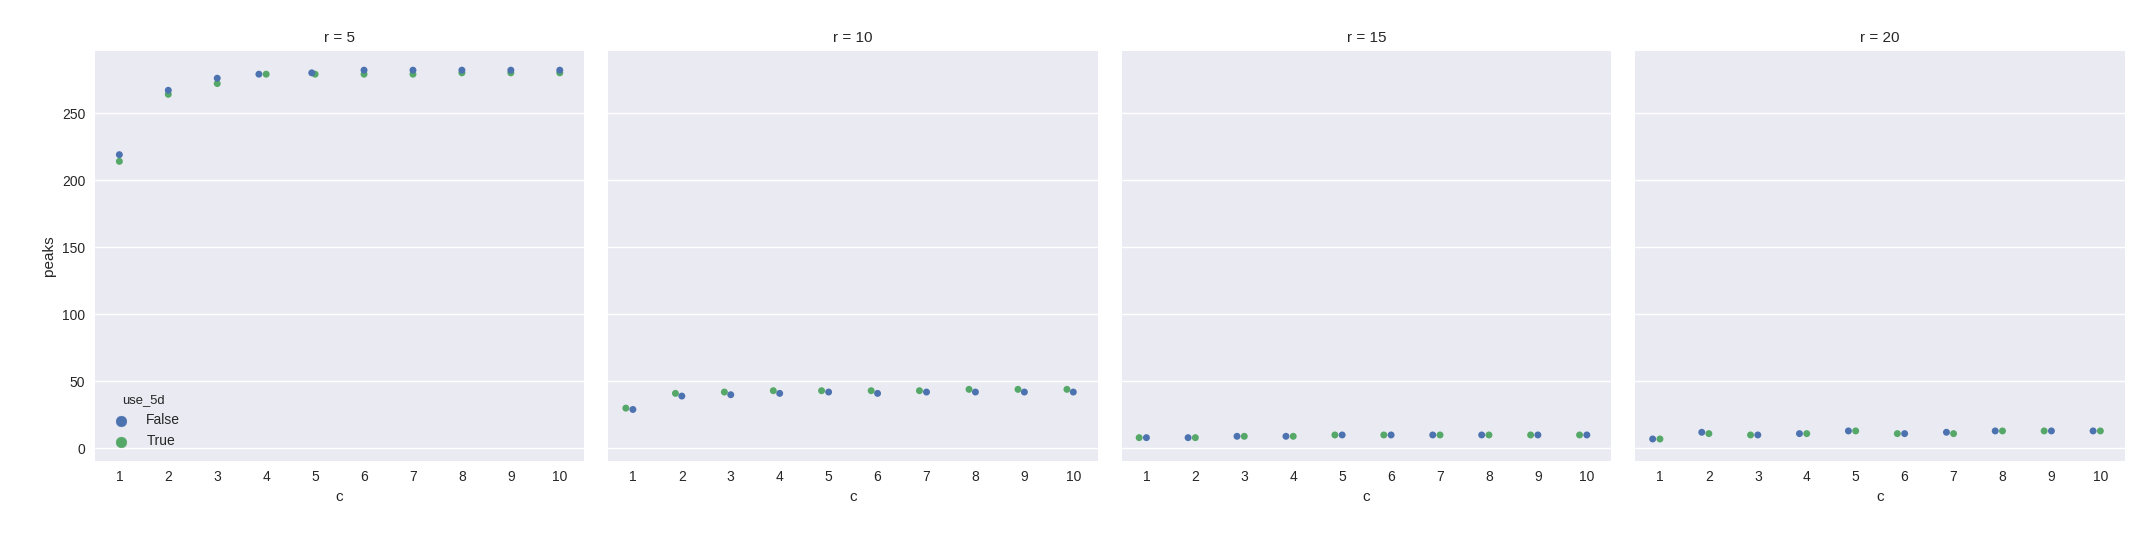
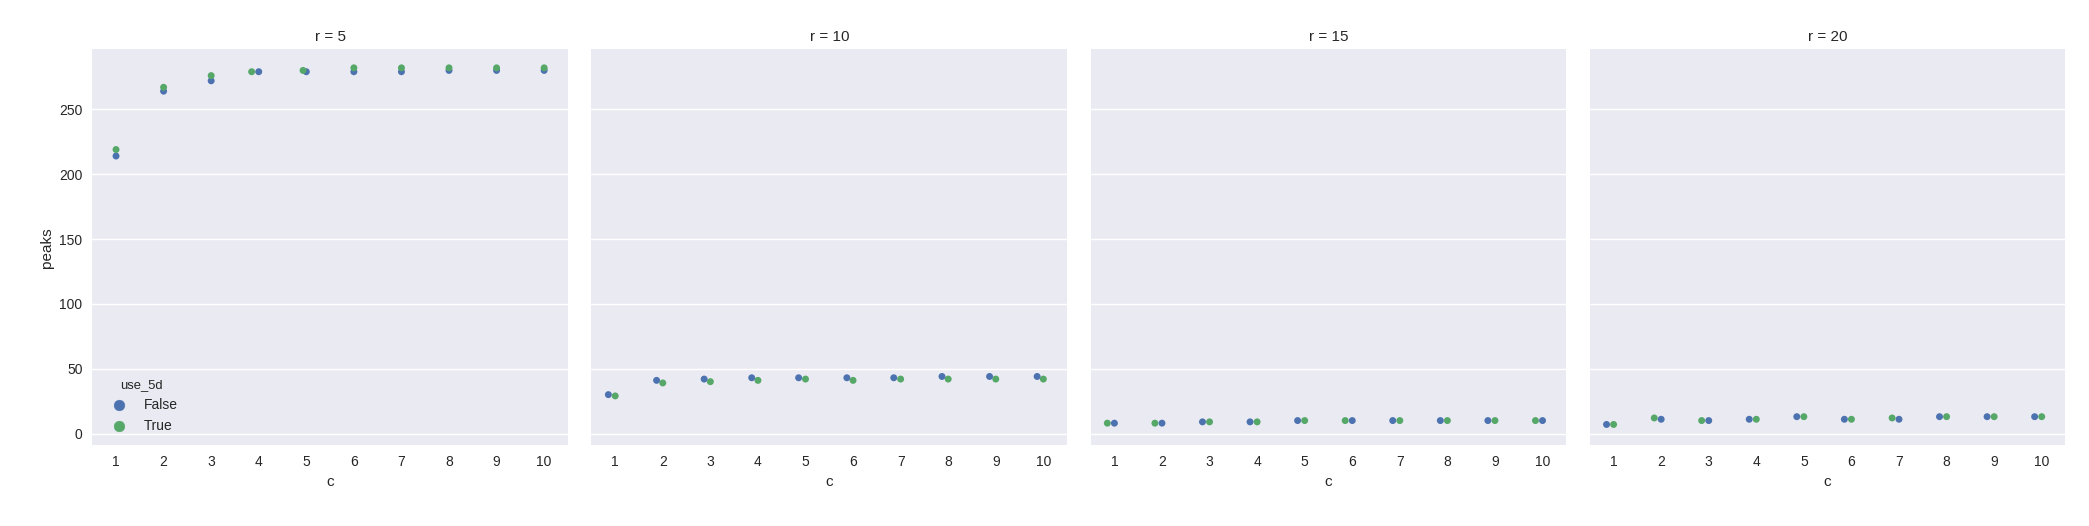
Fixed wrong boolean conversion

diff --git a/visualize.py b/visualize.py
@@ -31,7 +31,7 @@ def plot(stats):
         sfilename, sr, sc, suse_5d, _ = imgname[:-4].split('_')
         r.append(int(sr[1:]))
         c.append(int(sc[1:]))
-        use_5d.append(bool(suse_5d[6:]))
+        use_5d.append(suse_5d[2:] == "True")
 
     df = pd.DataFrame({
         "peaks": peaks,
@@ -42,6 +42,7 @@ def plot(stats):
     })
     # Peaks per C for different r
     g = sns.factorplot(x="c", y="peaks", kind="swarm", hue="use_5d", col="r", data=df, legend_out=False)
+
     sns.plt.show()
     # Time for r/c
     g = sns.factorplot(x="c", y="time", hue="r", col="use_5d", data=df, legend_out=False)
